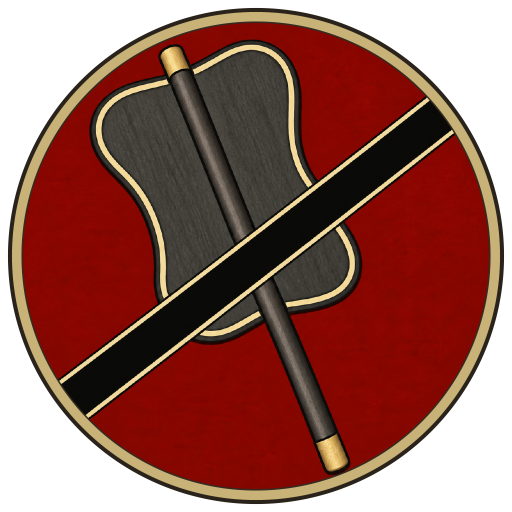
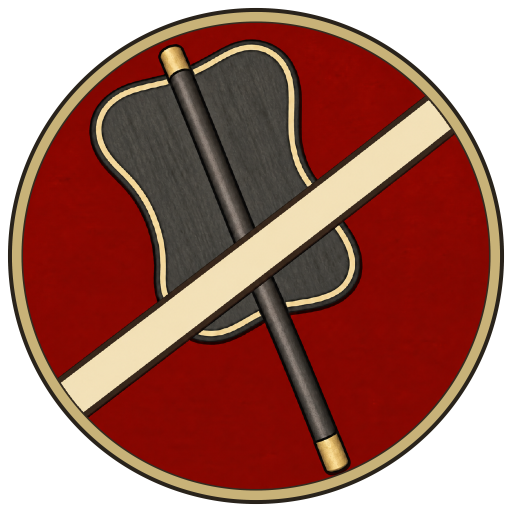
Use an ivory slash with dark brown edging for out-of-command

Changed region(s): [[0.0938, 0.1875, 0.9062, 0.8125]]

diff --git a/素材/状态图标/v1/README.md b/素材/状态图标/v1/README.md
@@ -3,7 +3,7 @@
 本目录提供四个状态图标；本轮仅更新美术，未修改 TTS 代码。交戦与指揮外为**暗朱红实心圆章、圆外透明**：
 
 - **交戦 / `engaged`**：象牙色交叉太刀。revision 10 清理圆外半透明杂点，统一为加粗、清晰的规则圆边；1024 源图中心半径 465 px 内及全部象牙色刀刃、刀柄的原像素保持不变。
-- **指揮外 / `out_of_command`**：军配提亮为炭灰黑，黑色斜杠加浅米金细描边，分开深色形体；保留实物军配的收腰圆角形制、长柄、约 25° 倾斜、古朴哑光旧木质感与无文字处理。外圈与交戦采用相同的清晰圆边。
+- **指揮外 / `out_of_command`**：revision 12 将中间斜杠改为**象牙白＋深褐描边**，与炭灰军配及暗朱红圆底拉开对比；保留实物军配的收腰圆角形制、长柄、约 25° 倾斜、古朴哑光旧木质感与无文字处理。外圈与交戦采用相同的清晰圆边。
 
 两者都按 **100 × 100** 显示，分别位于标题栏左右两侧，**可以同时出现，不能作为互斥状态复用一个位置**。
 
@@ -50,15 +50,15 @@
 
 ## 历史预览
 
-**既有交戦、指揮外和双状态的全部总览、棋面及细节预览均为旧稿，不代表 revision 11。** 文件保留，引用统一登记在 manifest 的 `previous_revision_previews`；当前 `overview` 指向独立的 `out_of_command.png`，没有新版总览。
+**既有交戦、指揮外和双状态的全部总览、棋面及细节预览均为旧稿，不代表 revision 12。** 文件保留，引用统一登记在 manifest 的 `previous_revision_previews`；当前 `overview` 指向独立的 `out_of_command.png`，没有新版总览。
 
 [交戦旧总览](./总览.jpg) · [指揮外与双状态旧总览](./out_of_command_总览.jpg)。旧炭灰背面图仅是对比示意，不是 TTS 实机截图；本轮没有重新检查旧预览。
 
 ## 代码侧交接
 
-- 本次为 **`revision: 11`**：两张阵形底牌加高，散開上下排距增大；两圆章保留 revision 10 的边缘清理与指揮外明暗分离。四图显示尺寸与位置保持不变。
+- 本次为 **`revision: 12`**：仅将指揮外的斜杠改为象牙白、描边改为深褐；保留炭灰军配、暗朱红圆底、古朴哑光与清晰外圈。交戦、密集、散開三图不变；四图显示尺寸与位置保持不变。
 - 固定标识为 `engaged`、`out_of_command`、`formation_close`、`formation_open`。前两者独立控制且允许同时显示，不能复用同一坐标；后两者共用阵形位置，互相切换。
-- 四个 `cloud_url` 均为空。代码侧应上传四份 **512 px 宽 PNG**、替换对应 Steam 图片 URL 并刷新缓存，再验证加载；圆章 UI 保持 100 × 100，阵形保持 240 × 120，坐标不变。仓库图片链接不代表 TTS 资源已配置或已验证。
+- 四个 `cloud_url` 均为空。本轮代码侧只需上传新版 **`out_of_command.png`（512 × 512）**、替换对应 Steam 图片 URL 并刷新缓存，再验证加载；指揮外 UI 保持 100 × 100，坐标不变。仓库图片链接不代表 TTS 资源已配置或已验证。
 - 本稿仅交接图片、尺寸和定位。状态如何触发、保存／恢复及清除由代码侧按已确认规则处理；这里不推测交战或指挥范围的自动判定、回合重置等逻辑。
 - 1200 棋面像素坐标需映射到实际物件坐标／UI。已有正背面渲染方式、厚度偏移及资源登记顺序请按代码侧交接保留，不能直接把本文件的像素数当作 TTS 世界坐标。
 - 实机检查应覆盖正反面、多人、缩放、倾斜和移动后的透明排序，检查单状态与双状态同时显示，并确认图标不拦截既有操作区域。
@@ -70,6 +70,6 @@
 
 美术分支 `codex/art-status-icons` 从最新 `main` 的 `8c7aaa731f124eb693a23800402a65033806975f` 创建，使用独立工作目录。未合并 PR #2；本次交接仅写在此目录，公共 HANDOFF 由代码侧整合。
 
-本轮核对六份圆章与六份阵形导出的尺寸、透明通道、外接矩形、留白及 SHA-256；圆章一对、阵形一对分别确认同尺寸 alpha 逐像素一致。另核对两图均为六个同尺度兵位，512 × 256 版的上下排中心间距约为密集 70 px、散開 89 px。未生成或重新检查棋面预览；未改显示定位、`tts/`、`tests/`、`tools/tts/` 或 `troop-cards-download` 分支。
+本轮核对指揮外三份导出的尺寸、透明通道、外接矩形、留白及 SHA-256，并确认与交戦的同尺寸 alpha 逐像素一致。交戦及两张阵形图的九份 PNG 和 manifest 资产条目未改。未生成或重新检查棋面预览；未改显示定位、`tts/`、`tests/`、`tools/tts/` 或 `troop-cards-download` 分支。
 
 本轮未运行 Lua／MoonSharp 检查，也未进行 TTS 实机渲染、联机、缩放或斜视验收。新版图标仍待用户确认；实际显示效果需要代码侧替换纹理并刷新缓存后检查。
